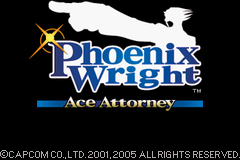
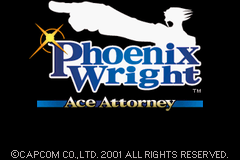
Title screen copyright line with the original GBA year only (2001)
Claude-Session: https://claude.ai/code/session_01SUsKQpDV9RG9kScWUHPdGG

Changed region(s): [[0.0, 0.9375, 0.9917, 1.0]]

diff --git a/tools/en/make_title.py b/tools/en/make_title.py
@@ -31,9 +31,11 @@ logo = src.crop((4, 14, 252, 165))
 scale = 111 / logo.height
 logo = logo.resize((round(logo.width * scale), 111), Image.LANCZOS)
 out.paste(logo, ((240 - logo.width) // 2, 0))
-# copyright line, unscaled, at the bottom. It is 245 px wide on the DS, so
-# narrow each of the five word gaps (3-4 px) by 1 px to fit the GBA's 240 px.
-drop = {55, 94, 145, 166, 201}
+# copyright line, unscaled, at the bottom, with only the original GBA game's
+# year: ",2005" (DS columns 117-144: the comma and the four digits) is cut,
+# leaving "2001" and the 4 px word gap before "ALL", as on the Japanese GBA
+# title ("(C)CAPCOM CO.,LTD.2001 ALL RIGHTS RESERVED."). 217 px, centred.
+drop = set(range(117, 145))
 keep = [x for x in range(7, 252) if x not in drop]
 s = np.array(src)[180:192]
 cr = Image.fromarray(s[:, keep])
